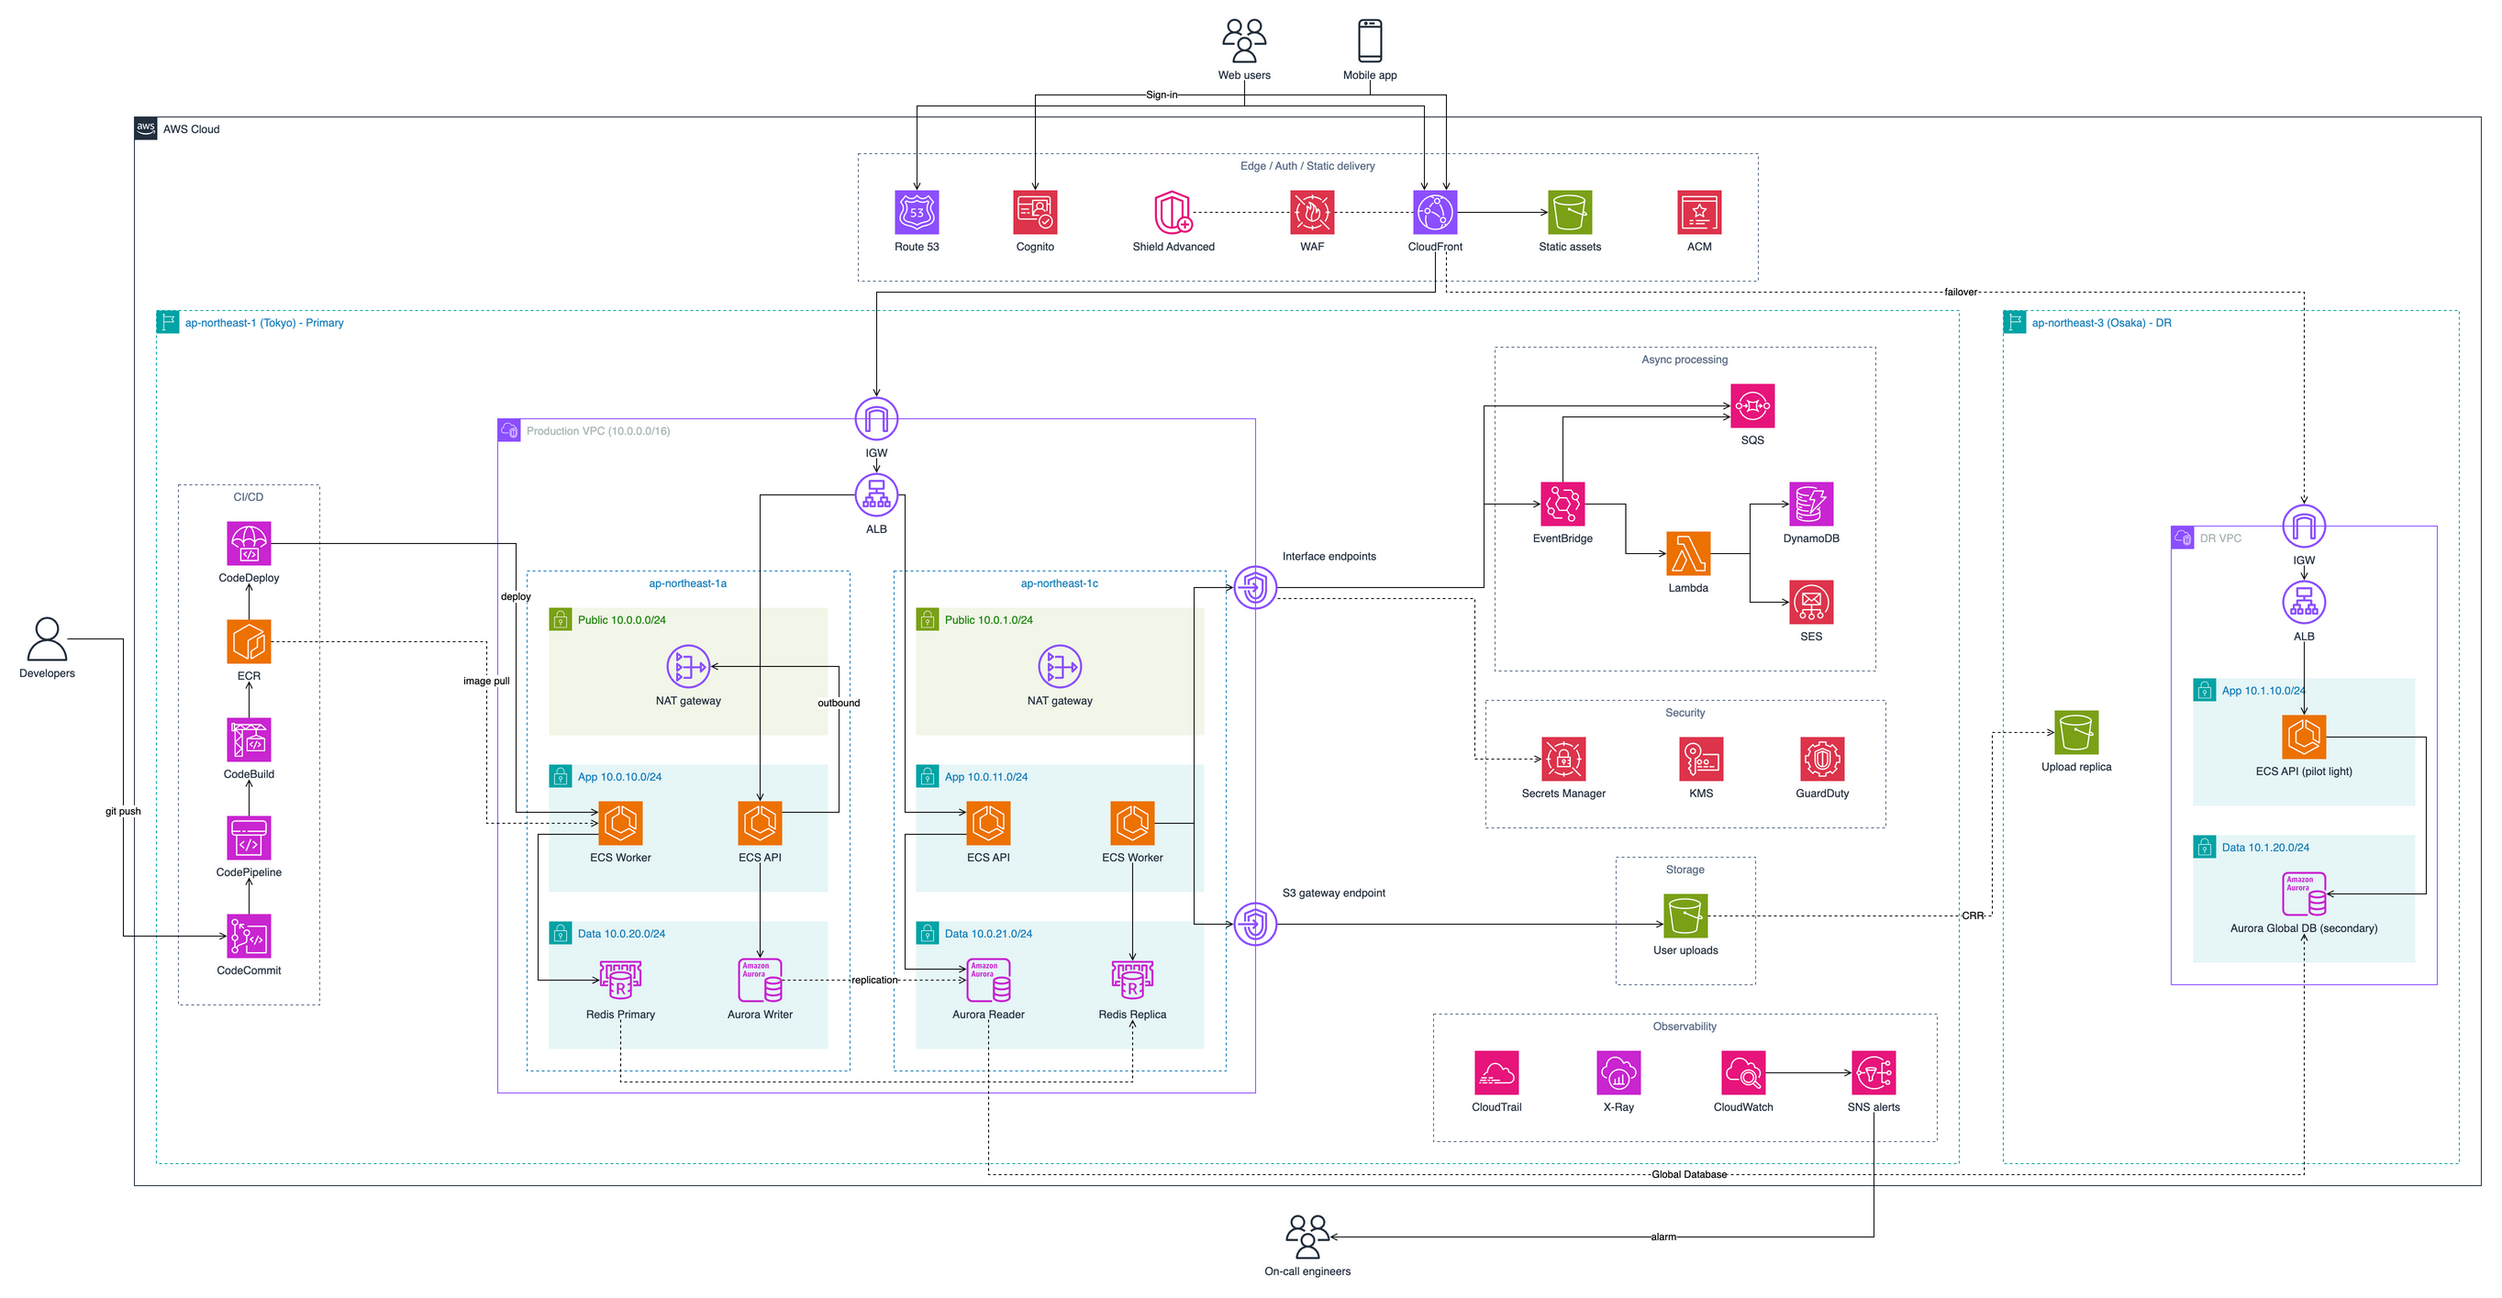
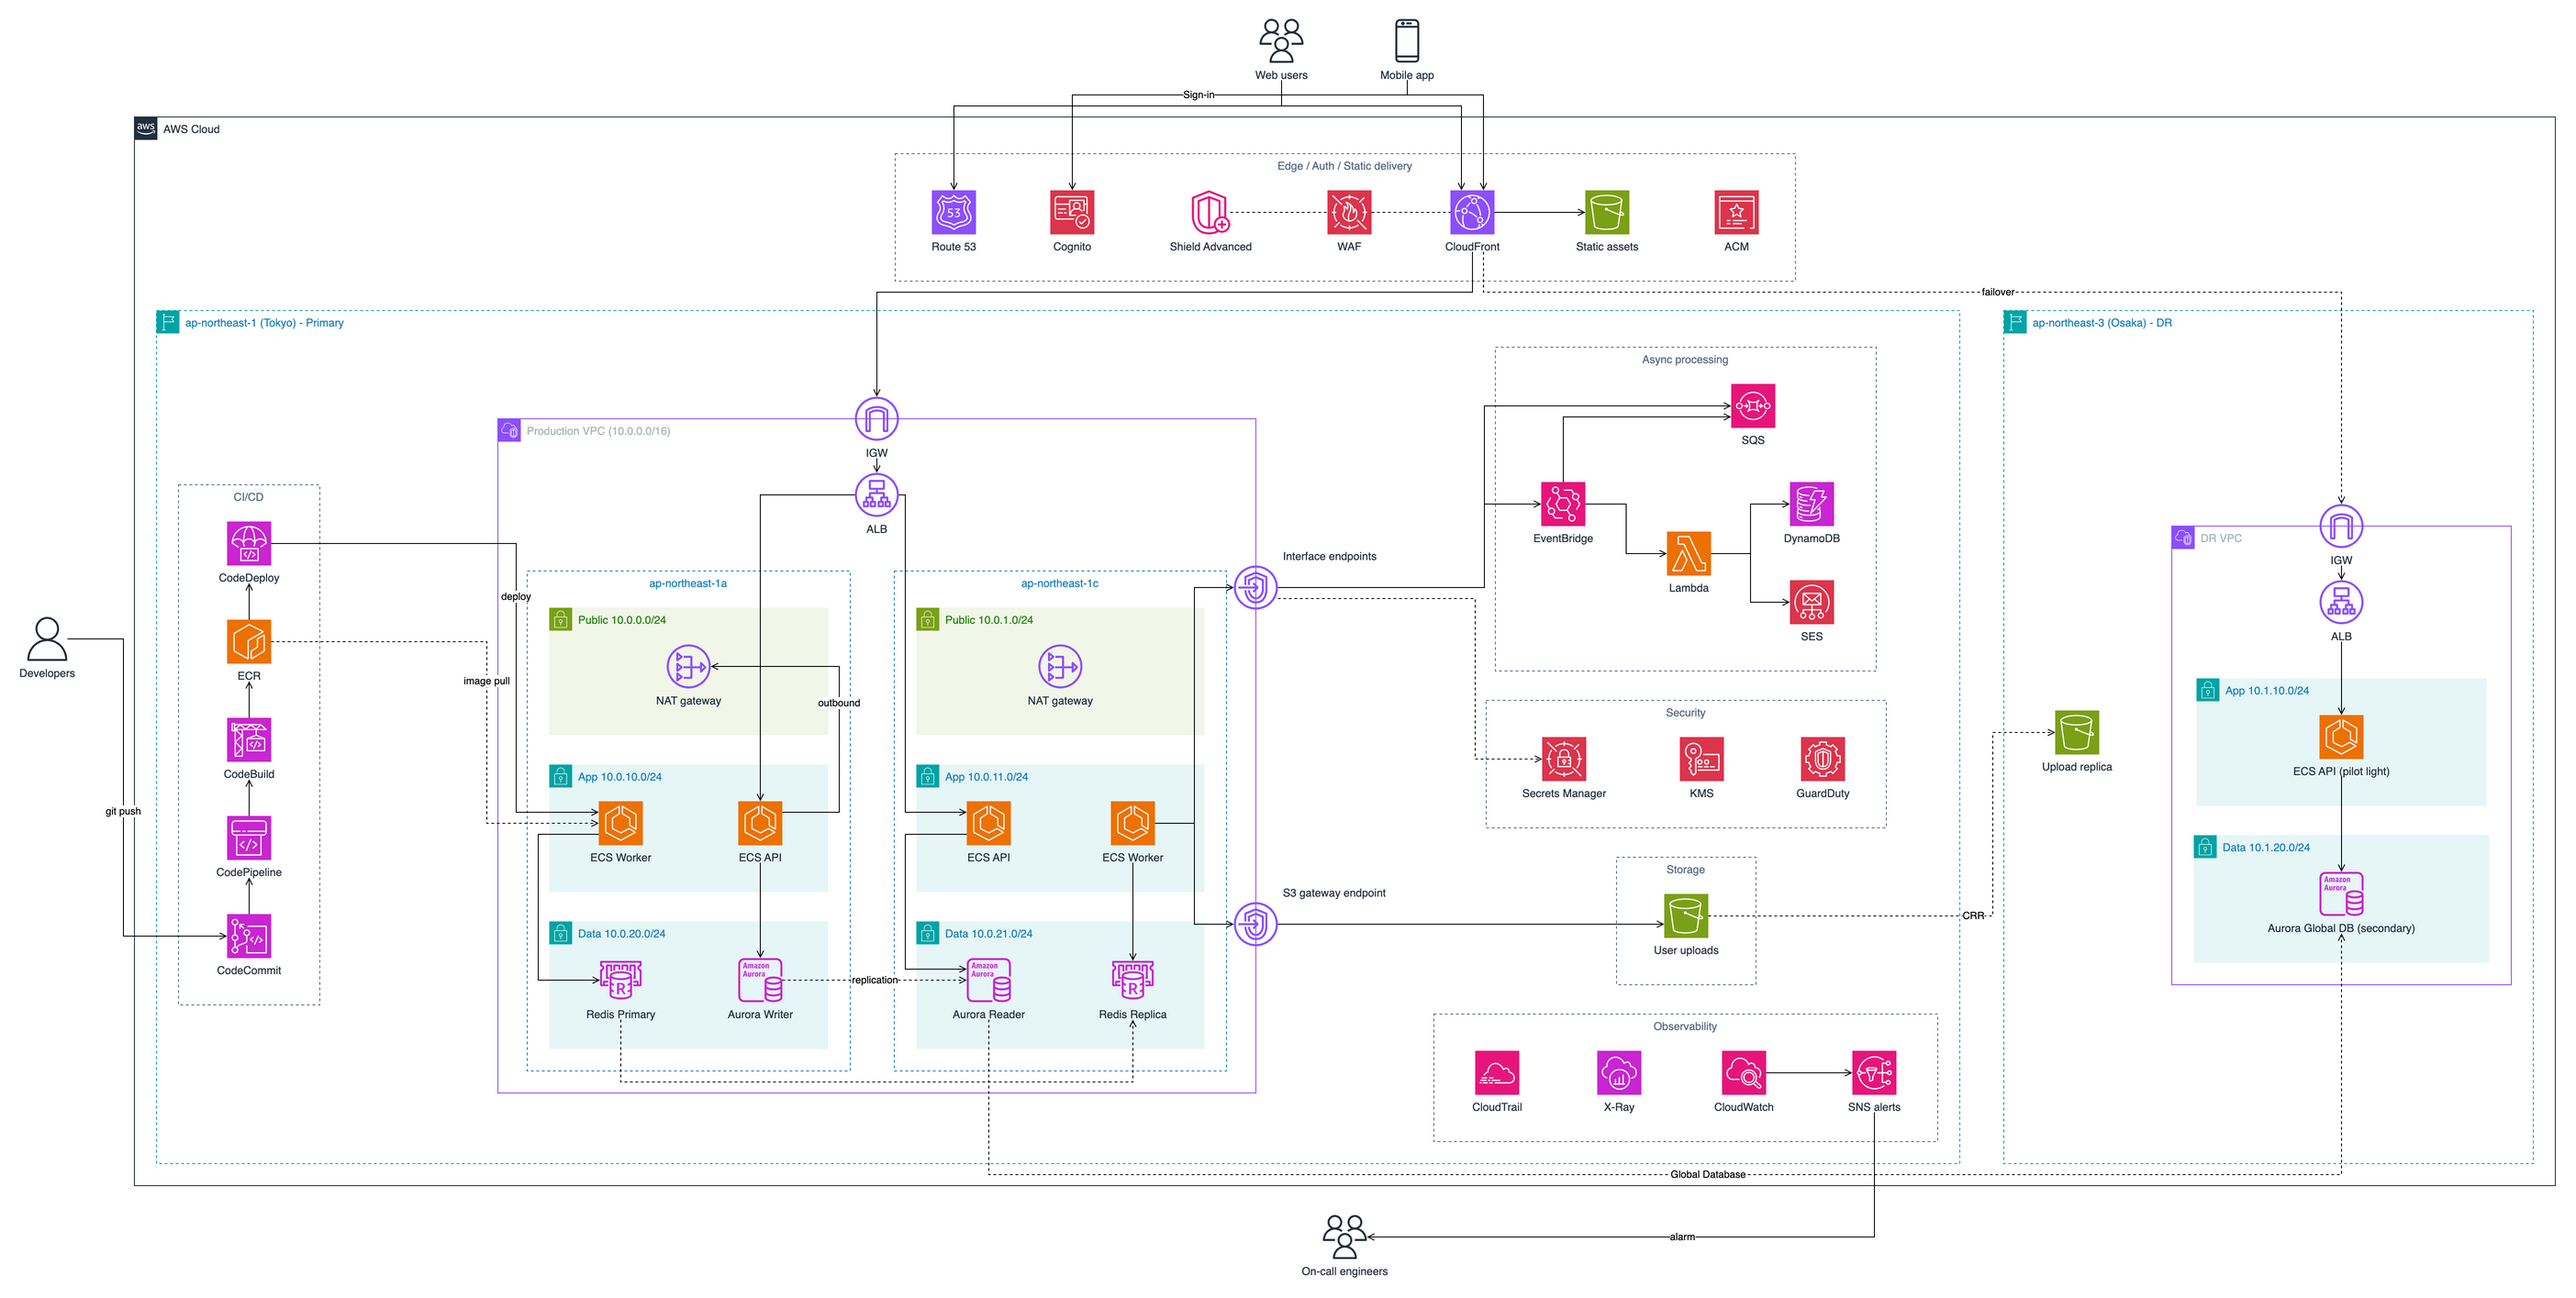
docs: let the Osaka API line run straight down to Aurora with clear_label
The README's e-commerce diagram looped this line out of the API's right side and back into Aurora's to avoid the Data subnet label. Both Osaka subnets get the option so they keep the same width. The guide and the skill mention it next to entering from the side.

diff --git a/docs/guide.md b/docs/guide.md
@@ -80,13 +80,14 @@ A node is one of four kinds, told apart by its key.
 - `icon`: a name from `icons`, such as `aws.ecs`.
 - `label`: text under the icon; defaults to the icon's title. Use `\n` in a quoted string for a line break.
 
-**Group** `{ group, label, children, direction, align, border, id }`
+**Group** `{ group, label, children, direction, align, border, clear_label, id }`
 
 - `group`: a group style such as `aws.cloud`, `aws.region`, `aws.vpc`, `aws.az`, `aws.public_subnet`, `aws.private_subnet`, `aws.security_group`, `aws.generic`, `gcp.project`, `azure.vnet`, `k8s.namespace`.
 - `children`: nodes inside the box. Leave it out for an empty box, such as a subnet with nothing drawn in it.
 - `direction`: `horizontal` (default) puts the children side by side; `vertical` stacks them.
 - `align`: `start`, `center` (default), `end`, or `expand` to give all children the same size across the direction. Use `expand` on the AZs in a row so their subnets line up.
 - `border`: icons on the edge of the box, keyed by position (see below). Typical: an internet gateway at `n`, VPC endpoints at `e`.
+- `clear_label`: `true` widens the box on both sides until its first icon starts right of the label at the top left, so a line can come down into that icon. Only for groups whose label sits at the top left.
 - `id`: needed only to link to the group itself.
 
 **Row** `{ row, align }`: `row` is a list of nodes laid out left to right without a box.
@@ -137,6 +138,7 @@ links:
 - Labels of AWS groups with an icon (region, VPC, subnets) and of the Google Cloud, Azure and Kubernetes groups sit at the top left; labels of AWS AZs and generic groups are centered at the top. A line coming down into the top of an icon right below such a label crosses it.
 - In a vertical group with a centered label, the first child sits right under the label. Start the group with something no line enters from above, bring the line in from the side, or lay the group out horizontally so the target is not in the middle.
 - So enter an icon inside nested groups from the side: `alb.w -> api_a.w`, `alb.e -> api_c.e`. The line then runs down in the gap beside the group.
+- When a line should come straight down instead, such as from an icon right above (`api.s -> db.n` with the database alone in its subnet), give the groups under it `clear_label: true`. Give it to the groups stacked with it as well, so they keep the same width.
 - With several icons in one subnet, give each of their lines its own side, using the points between the corners (`ene`, `ese`, `wsw`) when the four sides run out.
 - Use a different side to leave an icon than the side you entered it from (`alb.w -> api_a.w`, then `api_a.e -> db_a.e`), or the two lines overlap and read as one.
 - Lines that run along each other read as one, and a dashed line along a solid one looks solid. Lines may share a start point and split later, like branches, when they are drawn alike. Give lines from different icons their own end points (`deploy.e -> app.wnw`, `registry.e -> app.w`), and give a dashed line its own start point (`cdn.s -> igw.n`, `cdn.sse -> igw_dr.n`).

diff --git a/skills/yaml2drawio/SKILL.md b/skills/yaml2drawio/SKILL.md
@@ -54,7 +54,7 @@ Read the reference for the source you have:
 ## Fix what build reports
 
 - Errors stop the build and point at `file:line:column`, often with a suggestion. Fix the YAML there.
-- Warnings name a link and the icon, label or other line it crosses or runs along. Follow "Getting a clean layout" in the guide: other sides, entering nested icons from the side, reordering children, moving an icon to a group's `border`.
+- Warnings name a link and the icon, label or other line it crosses or runs along. Follow "Getting a clean layout" in the guide: other sides, entering nested icons from the side or `clear_label: true` on their group, reordering children, moving an icon to a group's `border`.
 - A `note:` means a link has an end without a side, so it is not checked. Give both ends a side. Never remove sides to get rid of a warning.
 
 ## Report
